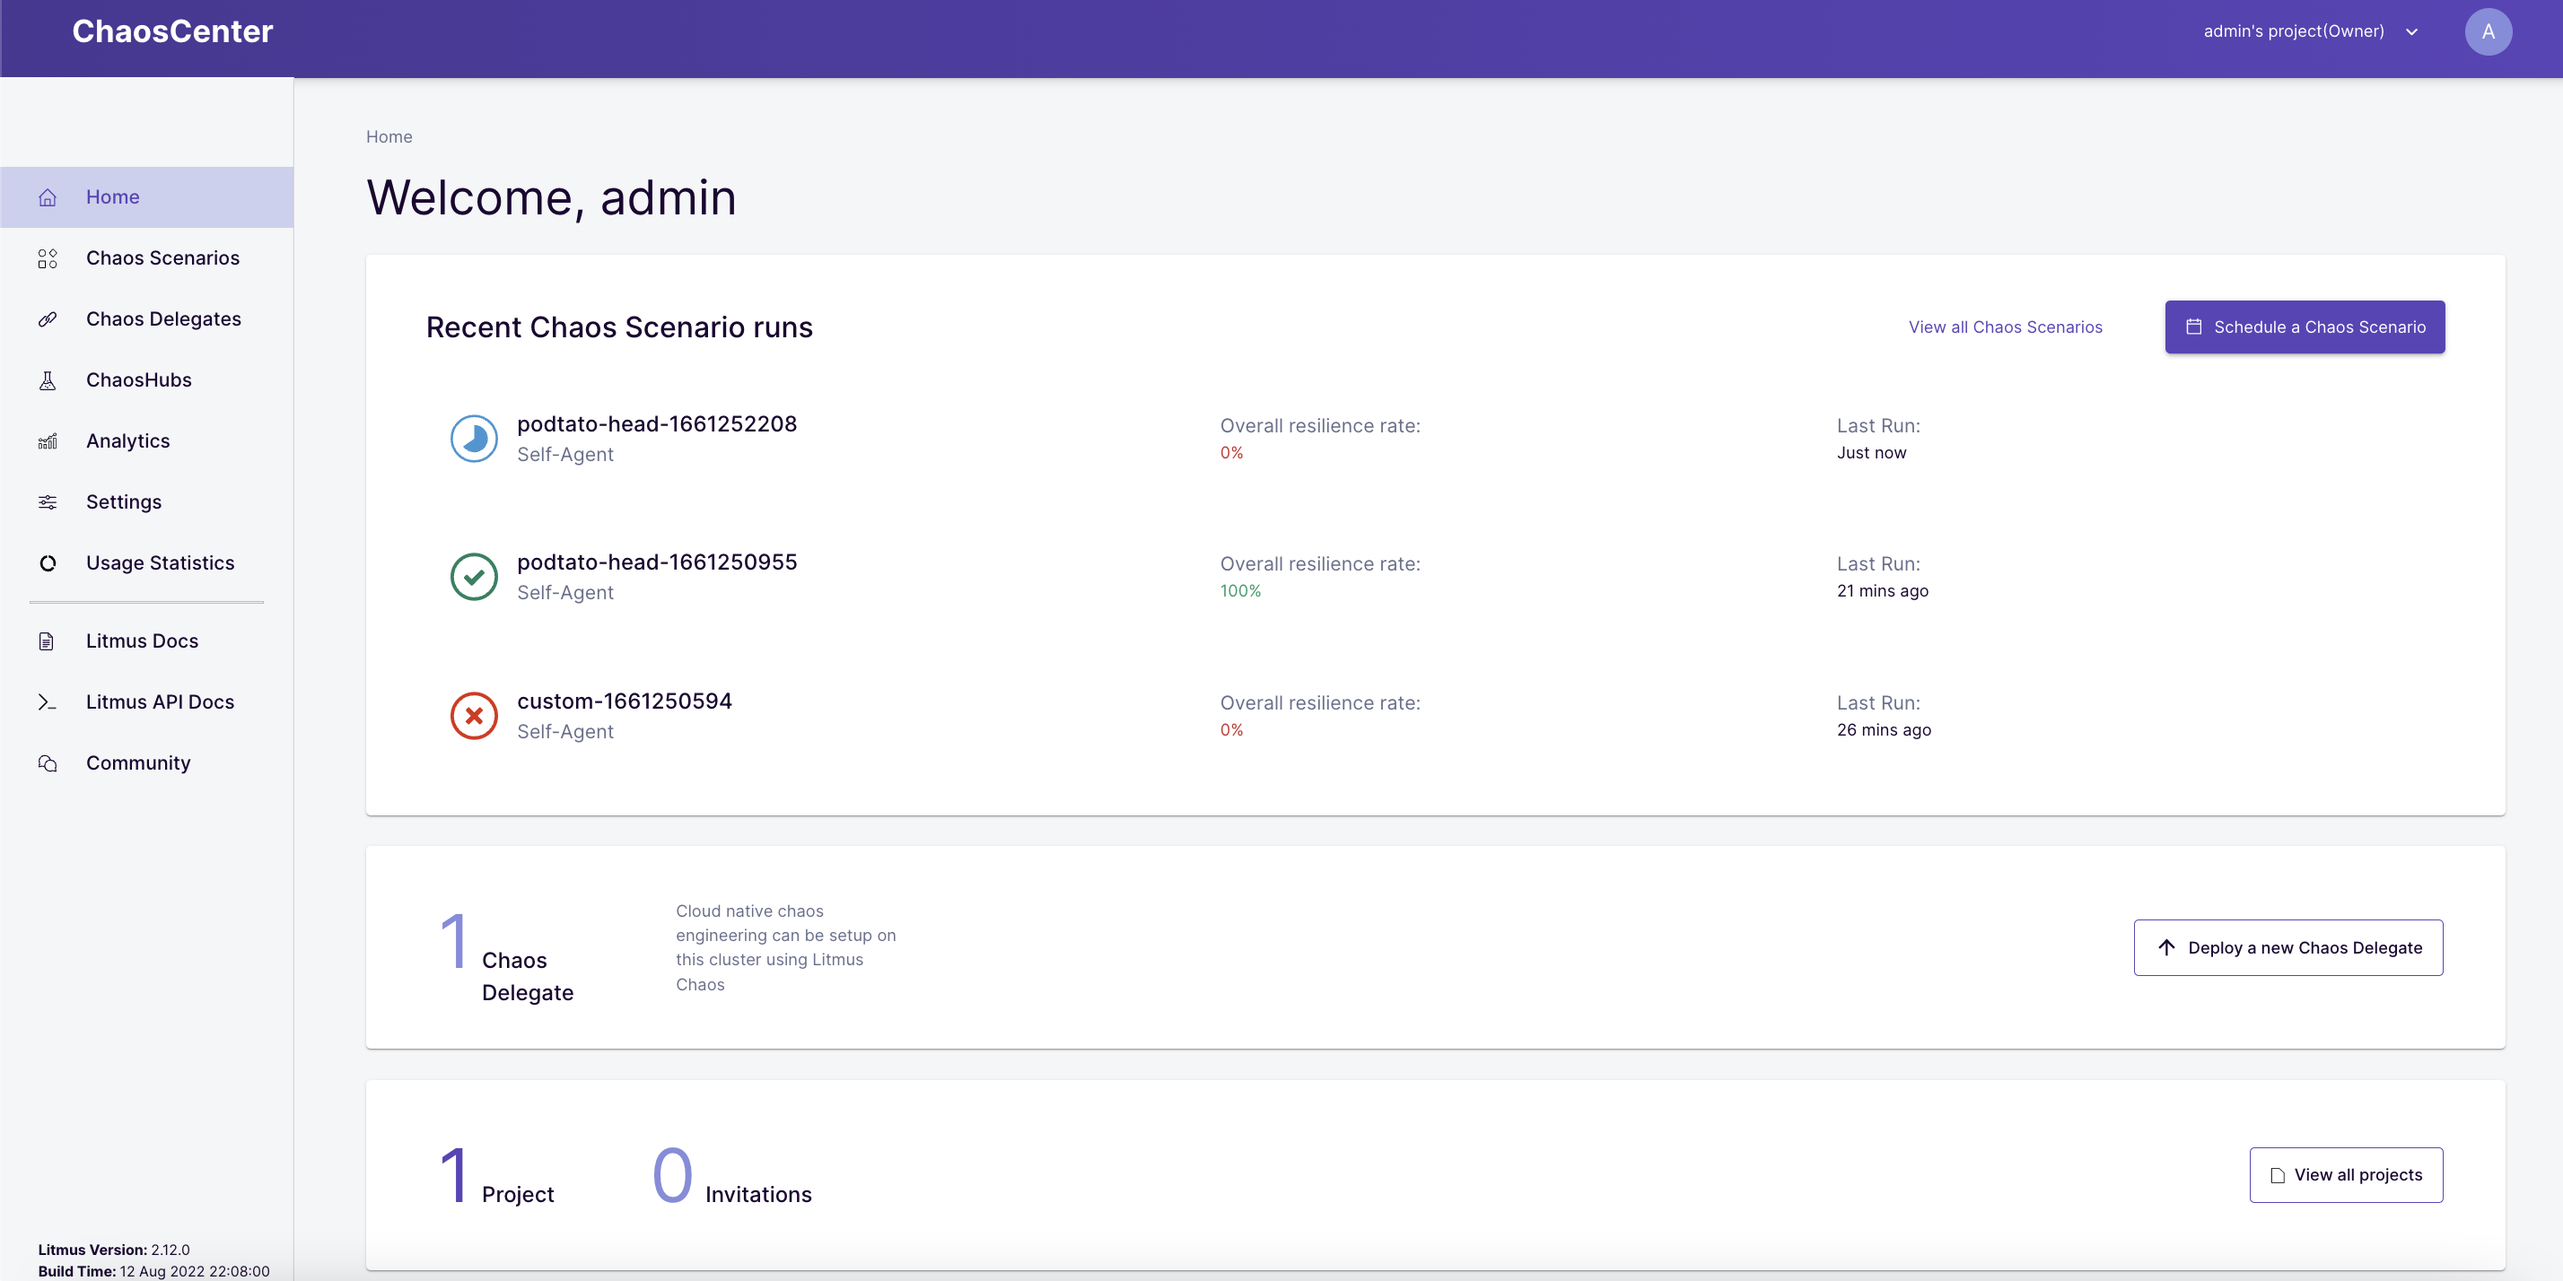
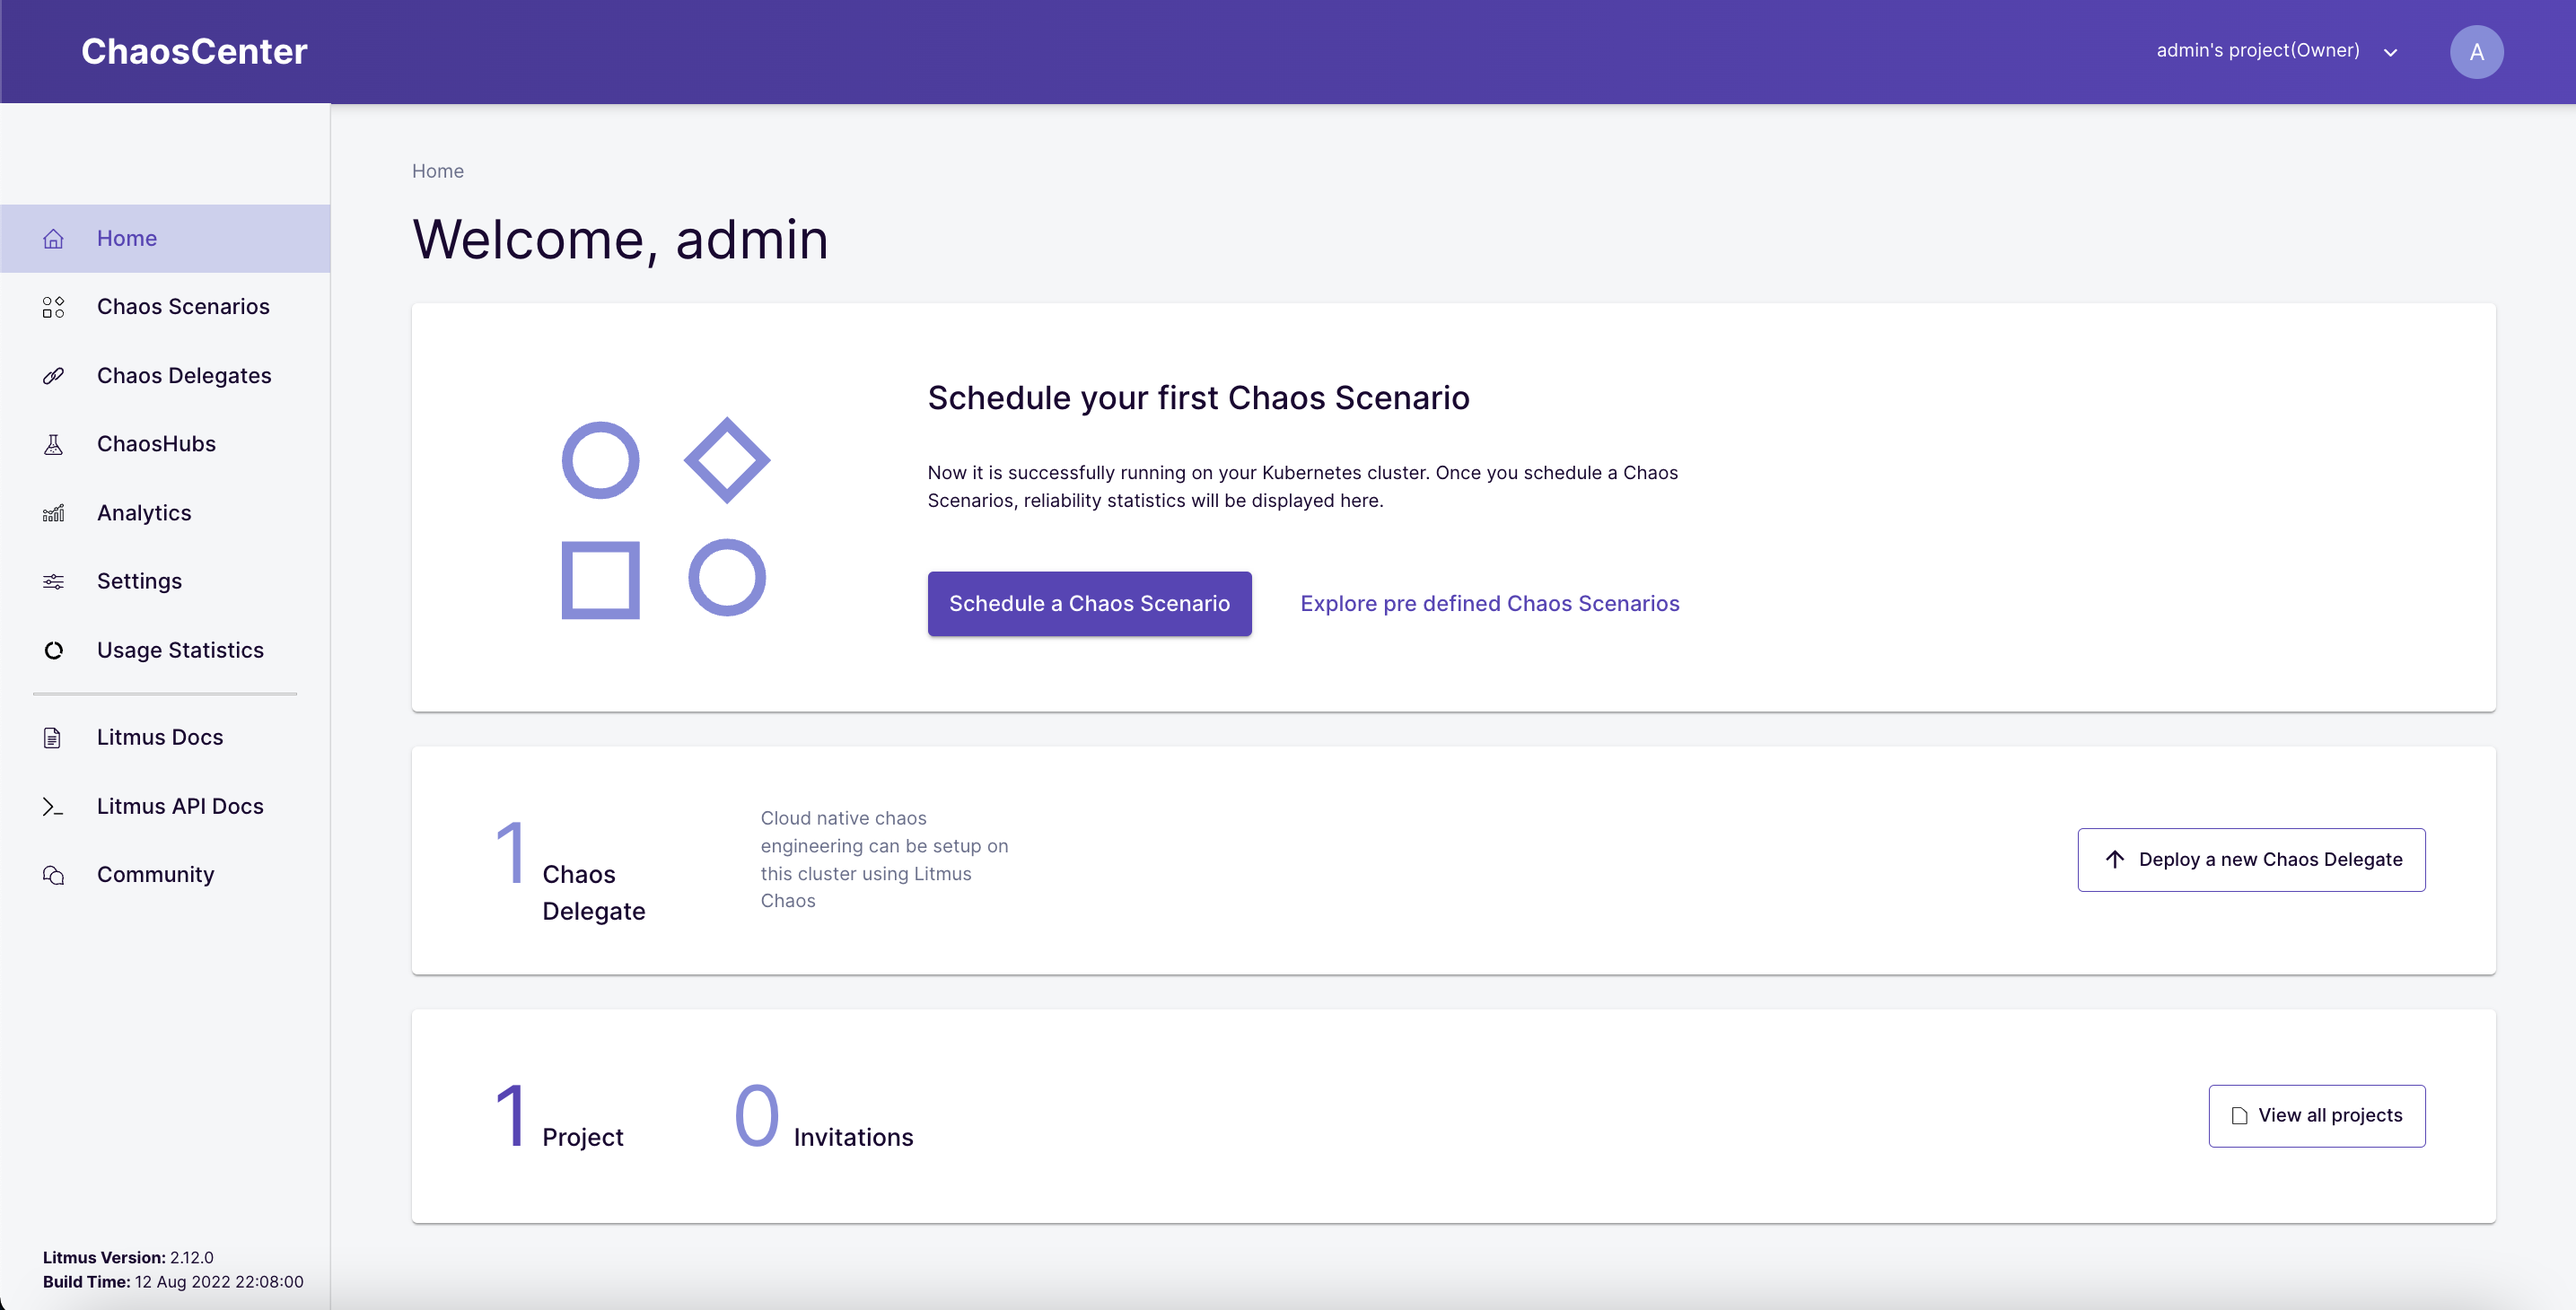
Chore(tutorials): Update scenario runs and images for getting started page (#34)

diff --git a/tutorial-getting-started/index.html b/tutorial-getting-started/index.html
@@ -44,7 +44,9 @@
 <p>In this tutorial, we will inject a pod-delete fault against a sample microservices application called <a href="https://github.com/cncf/podtato-head" target="_blank">podtato-head</a> and verify if the service continues to be available through the chaos duration. </p>
 <h2 is-upgraded>Pre-Requisites</h2>
 <ul>
-<li>Kubernetes 1.17 or later. Recommended sizing of at least: 2 vCPUs, 8GB memory, 10GB of disk space (for persistent volume creation)</li>
+<li>Kubernetes 1.18 or later. Recommended sizing of at least: 2 vCPUs, 8GB memory, 10GB of disk space (for persistent volume creation)</li>
+<li>A Persistent volume: Recommend to have a Persistent volume(PV) of 20GB, You can start with 1GB for test purposes as well. This PV is used as persistent storage to store the chaos config and chaos-metrics in the Portal. By default, litmus install would use the default storage class to allocate the PV. If your cluster don't have storage-class then use the local PV for example you can use <a href="https://raw.githubusercontent.com/rancher/local-path-provisioner/master/deploy/local-path-storage.yaml">this</a>.
+<li>Review the resource/sizing requirements: Make sure you have resource available for deploying <a href="https://docs.litmuschaos.io/docs/user-guides/chaoscenter-cluster-scope-installation#resource-requirements-of-control-plane-components">control plane</a> and <a href="https://docs.litmuschaos.io/docs/user-guides/chaosagents-installation#resource-requiremenets-for-agents-plane-components">execution plane</a> with some buffer.</li>
 <li>Helm3 or Kubectl</li>
 <li>Access to the internet from Cluster</li>
 </ul>
@@ -106,7 +108,7 @@ mongo-service                      ClusterIP      10.76.26.27    &lt;none&gt;   
 <p>You have been assigned a default project with Owner permissions </p>
 <p class="image-container"><img style="width: 624.00px" src="img/home.png"></p>
 <h3 is-upgraded><strong>Verify Successful Registration of the Self Chaos Delegate </strong></h3>
-<p>Once the project is created, the cluster is automagically registered as a chaos target via installation of Litmus Chaos Agents. This is represented as &#34;Self-Chaos Delegate&#34; in the Agents console of the ChaosCenter Dashboard. </p>
+<p>Once the project is created, the cluster is automagically registered as a chaos target via installation of Chaos Delegate. This is represented as &#34;Self-Agent &#34; in the Delegate console of the ChaosCenter Dashboard. </p>
 <pre><button onclick="copyText('kubectl get pods -n litmus')" style="float: right; border: none; background-color: transparent;" ><i class="fa fa-copy" style="font-size:x-large ; color: aliceblue;"></i></button>kubectl get pods -n litmus</pre>
 <pre>NAME                                        READY   STATUS    RESTARTS   AGE
 chaos-exporter-567c7cc8b-96pkf              1/1     Running   0          36m
@@ -137,7 +139,7 @@ workflow-controller-5c7fc6fcdd-st7n4        1/1     Running   0          36m</pr
 <p class="image-container"><img style="width: 624.00px" src="img/279fccbd5cb3c17d.png"></p>
 <p>Select the &#34;Self-Agent&#34; as the target cluster for chaos execution </p>
 <p class="image-container"><img style="width: 624.00px" src="img/297754c0e942727f.png"></p>
-<p>Select the option to create a new chaos scenario from pre-defined chaos scenario templates. Amongst the available templates, select the &#34;podtato-head-chaos&#34; option.</p>
+<p>Select the option to create a new chaos scenario from pre-defined chaos scenario templates. Amongst the available templates, select the &#34;podtato-head&#34; option.</p>
 <p class="image-container"><img style="width: 624.00px" src="img/1015bd4eefd9bf97.png"></p>
 <p>View the description of the chaos scenario </p>
 <p class="image-container"><img style="width: 624.00px" src="img/bbee7b2929080acc.png"></p>
@@ -145,6 +147,10 @@ workflow-controller-5c7fc6fcdd-st7n4        1/1     Running   0          36m</pr
 <p>View the preview of the chaos scenario.</p>
 <p> (Optional) You could also edit the chaos scenario YAML depending upon your need at this stage</p>
 <p class="image-container"><img style="width: 624.00px" src="img/e456843387f5719c.png"></p>
+<p> (Optional) You could also add the steady-state hypothesis for the chaos scenario</p>
+<p class="image-container"><img style="width: 624.00px" src="img/ddd6843387f5809g.png"></p>
+<p> (Optional) Verify the hypothesis for the chaos scenario</p>
+<p class="image-container"><img style="width: 624.00px" src="img/e456843387f5809g.png"></p>
 <h3 is-upgraded><strong>(Optional) Preview the Chaos Scenario Steps </strong></h3>
 <p>Assign weights to the chaos experiments that are part of the chaos scenario using the slider. This is useful when there are multiple experiments in the chaos scenario. These weights influence the &#34;Resilience Score&#34; calculation for the chaos scenario. </p>
 <p class="image-container"><img style="width: 624.00px" src="img/4c73a234fbbddb5.png"></p>
@@ -252,10 +258,12 @@ workflow-controller-78dbff5b5d-xcthg        1/1     Running             0       
       </google-codelab-step>
     
       <google-codelab-step label="Analyze Chaos Scenario" duration="0">
-        <p>Check the Resilience Score achieved for the chaos scenario by clicking on &#34;Show the analytics&#34;. </p>
-        <p class="image-container"><img style="width: 624.00px" src="img/scenario-run-completed.png"></p>
-        <p>The analytics view also provides details of successful v/s failed experiments that were part of the scenario. </p>
-        <p class="image-container"><img style="width: 624.00px" src="img/scenario-analytics.png"></p>
+        <p>Check the Resilience Score achieved for the chaos scenario by clicking on &#34;Show the statistics&#34;. </p>
+        <p class="image-container"><img style="width: 624.00px" src="img/show-the-statistics.png"></p>
+        <p>Now click for the drop-down &#34; Show Statistics&#34;. </p>
+        <p class="image-container"><img style="width: 624.00px" src="img/show-statistics-drop-down.png"></p>
+        <p>Check the Experiment Statistics and resilience score of the scenario. </p>
+        <p class="image-container"><img style="width: 624.00px" src="img/statistics-view.png"></p>
       </google-codelab-step>
     
       <google-codelab-step label="Summary" duration="0">
